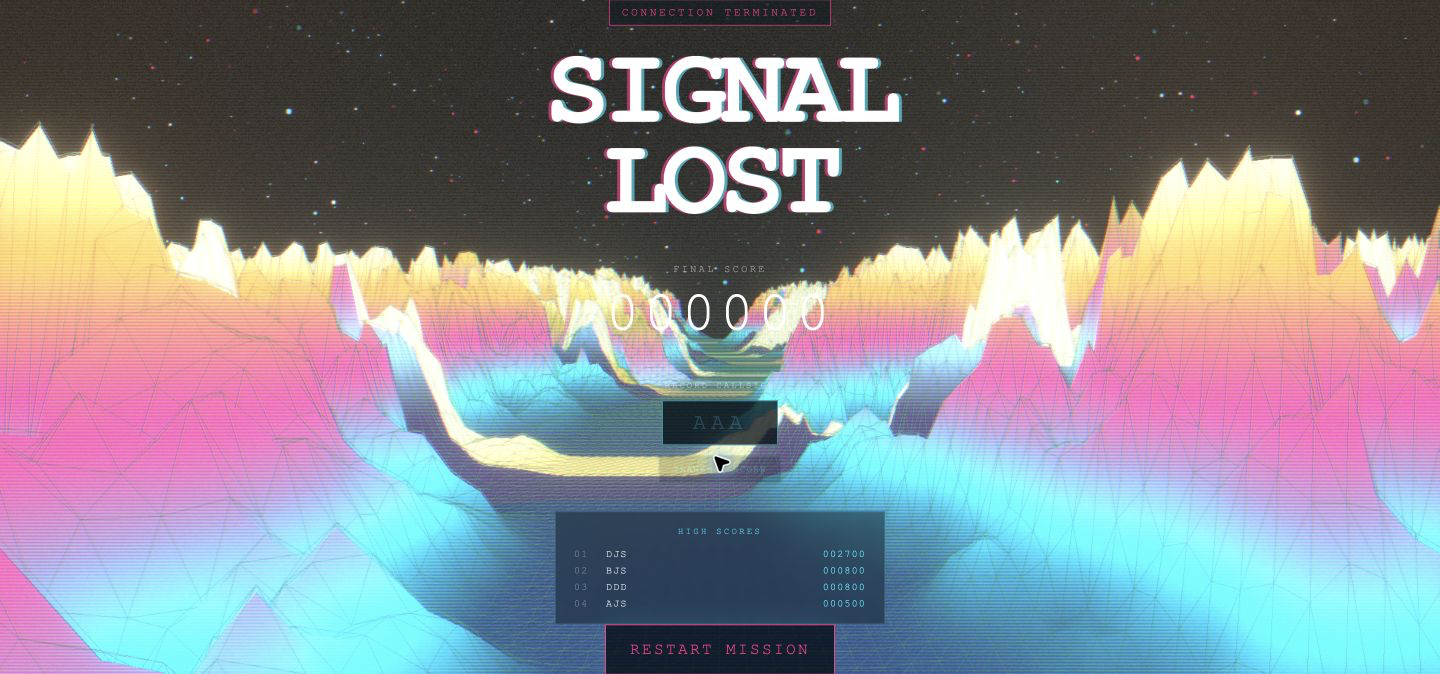
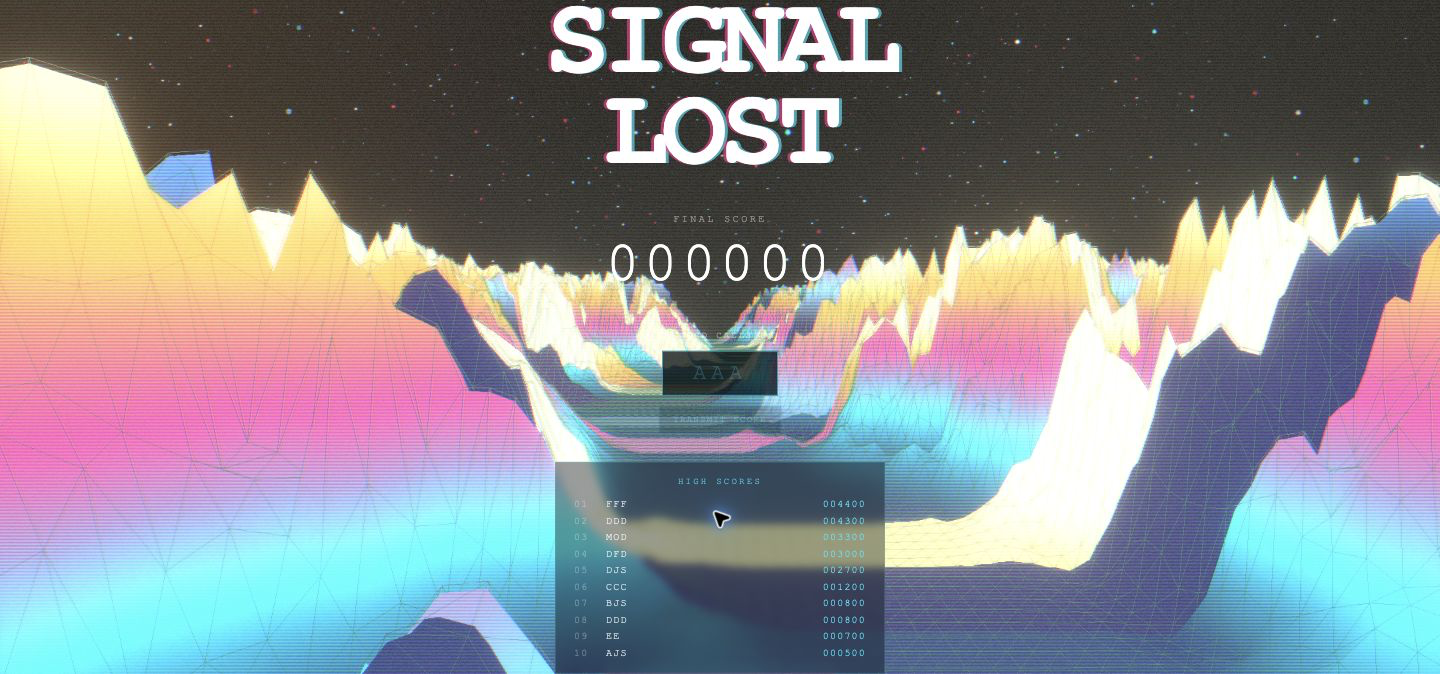
docs: refresh architecture and screenshots for current app

diff --git a/README.md b/README.md
@@ -16,7 +16,7 @@ Built with React, Three.js, custom GLSL shaders, and a MongoDB-backed leaderboar
 
 </div>
 
-![Glitch Void Zero title screen with neon terrain, Start Mission button, and shared high scores](docs/screenshots/title-screen.png)
+![Glitch Void Zero title screen with neon terrain, Start Mission and Leaderboard buttons](docs/screenshots/title-screen.png)
 
 ## Overview
 
@@ -28,7 +28,7 @@ The project brings together real-time 3D rendering, physics-based collision dete
 
 - **3D arcade combat** — steer a GLB spaceship, aim with an on-screen reticle, and fire projectiles at incoming enemies.
 - **Neon spaceship** — a cyan emissive tint makes the ship glow through the existing bloom effect while retaining its base textures.
-- **Shared high scores** — a MongoDB-backed top-ten leaderboard appears on the title and game-over screens, with callsign submission after each mission.
+- **Shared high scores** — a MongoDB-backed top-ten ranking has its own **Top Pilots** screen, accessible through the Leaderboard button below Start Mission. High scores also appear after a mission ends.
 - **Escalating difficulty** — enemies move faster and spawn more frequently as a run progresses.
 - **Power-up pickups** — collect rapid fire, a speed boost, or a shield from defeated enemies.
 - **Procedural neon terrain** — custom vertex and fragment shaders animate a landscape with solid and wireframe layers.
@@ -40,7 +40,7 @@ The project brings together real-time 3D rendering, physics-based collision dete
 
 ![Live gameplay showing the cyan emissive spaceship, aiming reticle, score, and ship-shaped hull indicators](docs/screenshots/gameplay.png)
 
-*Screenshots refreshed from the [live demo](https://glitch-void-zero.vercel.app/) on September 14, 2026. Leaderboard entries reflect the scores visible at capture time.*
+*Screenshots captured from the current project running locally. Leaderboard entries reflect the scores visible at capture time.*
 
 Select **Start Mission**, line up incoming targets, and survive for as long as you can. Each destroyed enemy earns **100 points**. You begin with **three lives**; losing all three ends the mission. Enemy speed and spawn frequency increase over time.
 
@@ -56,9 +56,15 @@ Select **Start Mission**, line up incoming targets, and survive for as long as y
 | Speed boost | Increases movement speed for 10 seconds |
 | Shield | Absorbs one enemy collision |
 
+### Browse the leaderboard
+
+![Dedicated Top Pilots leaderboard with ten ranked callsigns and a Back button](docs/screenshots/leaderboard.png)
+
+Choose **Leaderboard** beneath **Start Mission** to open the dedicated rankings screen. Select **Back**, or press **Escape**, to return to the menu. Opening this screen refreshes the rankings; if loading fails, use **Retry**. Navigation keeps the animated world running in the background.
+
 ### Record your score
 
-![Game-over screen with callsign entry, Transmit Score, shared high scores, and Restart Mission](docs/screenshots/game-over.png)
+![Game-over screen with final score, callsign entry, and shared high scores](docs/screenshots/game-over.png)
 
 After a mission ends, enter a **1–3 character callsign** using letters or digits and select **Transmit Score**. Callsigns are normalized to uppercase. A successful submission is stored in MongoDB; the leaderboard displays the ten highest scores, with earlier submissions first when scores tie. Loading, saving, and failure states appear in the UI, and failed requests can be retried.
 
@@ -66,13 +72,13 @@ After a mission ends, enter a **1–3 character callsign** using letters or digi
 
 ### Rendering and visual effects
 
-[GlitchTerrain.jsx](src/components/glitch/GlitchTerrain.jsx) renders a shared plane geometry with separate solid and wireframe shader materials. Frame updates drive time, terrain offset, and glitch intensity through uniforms, while the terrain stays positioned ahead of the camera. The custom GLSL lives in [terrain shader files](src/components/glitch/shaders/terrain).
+[GlitchTerrain.jsx](src/components/glitch/GlitchTerrain.jsx) renders a shared plane geometry with separate solid and wireframe shader materials. Frame updates drive time, terrain offset, and glitch intensity through uniforms, while the terrain stays positioned ahead of the camera. The custom GLSL lives in separate [vertex](src/components/glitch/shaders/terrain/vertex.glsl) and [fragment](src/components/glitch/shaders/terrain/fragment.glsl) files, imported through Vite’s `?raw` loader. [NeonStarfield.jsx](src/components/glitch/NeonStarfield.jsx) likewise uses dedicated [starfield shaders](src/components/glitch/shaders/starfield).
 
 [GlitchEffects.jsx](src/components/glitch/GlitchEffects.jsx) composes bloom, chromatic aberration, scanlines, and noise. Effect settings sample the shared glitch state at 10 Hz, limiting React updates while the scene continues animating through the render loop.
 
 ### Game state and collision handling
 
-[useGameStore.js](src/hooks/useGameStore.js) uses Zustand for mission phases, score, lives, and entity collections. Mutable input, player, and power-up state support frame-by-frame reads without requiring React renders for every movement update.
+[useGameStore.js](src/hooks/useGameStore.js) uses Zustand for mission phases, score, lives, and entity collections. Frame-by-frame player position, invulnerability, and power-up timers live separately in [gameState.js](src/state/gameState.js). Input and visual state are held in [touchState.js](src/state/touchState.js) and [glitchState.js](src/state/glitchState.js), allowing render-loop reads without React updates for every movement. The store manages `menu`, `playing`, and `gameover`; the home/leaderboard view is local UI state in [GameUI.jsx](src/components/game/ui/GameUI.jsx).
 
 Rapier kinematic bodies and sensor colliders handle gameplay intersections. Projectile hits remove enemies, award points, create explosions, and can spawn power-ups. [EnemySpawner.jsx](src/components/game/EnemySpawner.jsx) controls the difficulty ramp and seeds a new pseudo-random spawn sequence for each run.
 
@@ -82,7 +88,7 @@ Rapier kinematic bodies and sensor colliders handle gameplay intersections. Proj
 
 ### Persistent leaderboard
 
-[Leaderboard.jsx](src/components/game/ui/Leaderboard.jsx) renders rankings and loading/error states. [leaderboardApi.js](src/services/leaderboardApi.js) now requests the shared API instead of browser-local storage. [server/leaderboard.js](server/leaderboard.js) validates submissions, while [server/mongodb.js](server/mongodb.js) reuses a database connection and creates the ranking index on first use.
+[Leaderboard.jsx](src/components/game/ui/Leaderboard.jsx) renders rankings and loading/error states. [leaderboardApi.js](src/services/leaderboardApi.js) handles shared API requests and request timeouts. [server/leaderboard.js](server/leaderboard.js) validates submissions, while [server/mongodb.js](server/mongodb.js) reuses a database connection and creates the ranking index on first use.
 
 | Endpoint | Behavior |
 | --- | --- |
@@ -166,24 +172,37 @@ npm run preview
 
 ```text
 Glitch-Void-Zero/
-├── api/leaderboard.js          # Vercel leaderboard function
+├── api/leaderboard.js          # Vercel function entry point
 ├── server/
-│   ├── leaderboard.js          # API validation and ranking queries
-│   ├── mongodb.js              # Database connection and index
-│   └── leaderboard.test.js     # API tests
-├── docs/screenshots/           # README captures from the live app
-├── public/
-│   └── models/                # Spaceship GLB asset
+│   ├── leaderboard.js         # Validation and ranking queries
+│   ├── mongodb.js             # Database connection and index
+│   └── leaderboard.test.js    # API tests
+├── docs/screenshots/          # Current app screenshots
+├── public/models/             # Third-party spaceship GLB
 ├── src/
-│   ├── App.jsx                # Canvas, lighting, world, and UI composition
+│   ├── App.jsx                # Canvas, world, lighting, and UI
 │   ├── main.jsx               # React entry point
-│   ├── index.css              # Game UI and responsive styling
+│   ├── index.css              # HUD, menus, and responsive styles
+│   ├── hooks/                 # Zustand store, keyboard, touch detection
+│   ├── state/                 # Mutable game, touch, and glitch state
+│   ├── services/              # Leaderboard API client
 │   └── components/
-│       ├── game/              # Entities, physics, state, HUD, and input
-│       └── glitch/            # Terrain, shaders, starfield, and effects
+│       ├── game/
+│       │   ├── GameScene.jsx  # Physics and entity composition
+│       │   ├── FlightRig.jsx  # Camera and flight motion
+│       │   ├── EnemySpawner.jsx
+│       │   ├── entities/      # Ship, enemies, projectiles, pickups, explosions
+│       │   ├── controls/      # Joystick and fire button
+│       │   └── ui/            # Menus, leaderboard, HUD, and reticle
+│       ├── glitch/
+│       │   ├── GlitchTerrain.jsx
+│       │   ├── NeonStarfield.jsx
+│       │   ├── GlitchEffects.jsx
+│       │   └── shaders/       # Terrain and starfield vertex/fragment GLSL
+│       └── ui/                # Shared loading overlay
 ├── index.html
 ├── package.json
-└── vite.config.js
+└── vite.config.js             # React and local leaderboard middleware
 ```
 
 ## Third-Party Assets
